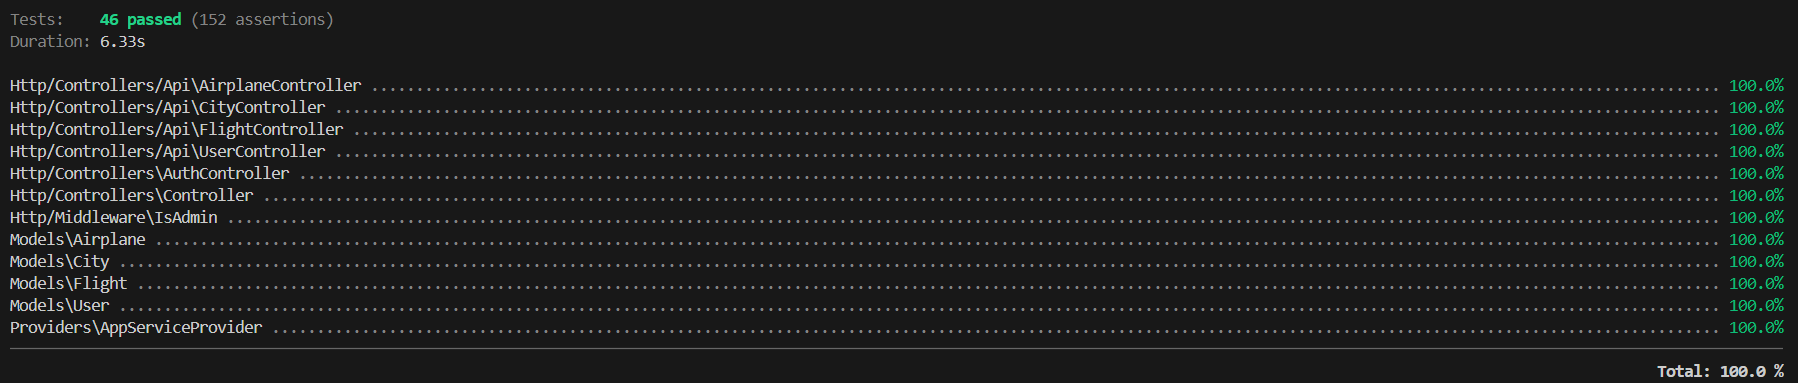
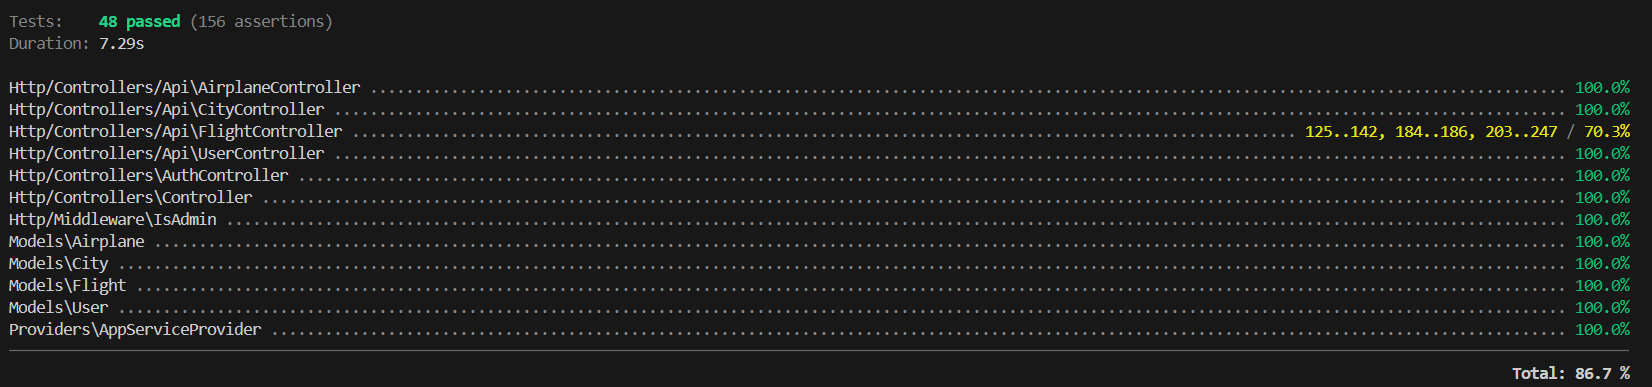
docs: fix backend test coverage percentage

Changed region(s): [[0.0, 0.201, 1.0, 0.9191], [0.0, 0.0287, 0.2161, 0.1436], [0.8953, 0.9478, 1.0, 1.0]]

diff --git a/backend/Altavia-Airlines/README.md b/backend/Altavia-Airlines/README.md
@@ -34,7 +34,7 @@ In order to run and try this project locally you will need:
     cd backend/Altavia-Airlines
 ```
 
-3. Install Composer:
+3. Install project dependencies:
 ```
     composer install
 ```
@@ -282,7 +282,7 @@ This project has some protected routes with middlewares because only the admin u
 
 ## 👾 Tests
 
-This project has a **100%** of test coverage.
+This project has a **86.7%** of test coverage.
 
 You can try the tests and see the coverage in the terminal using:
 ```
